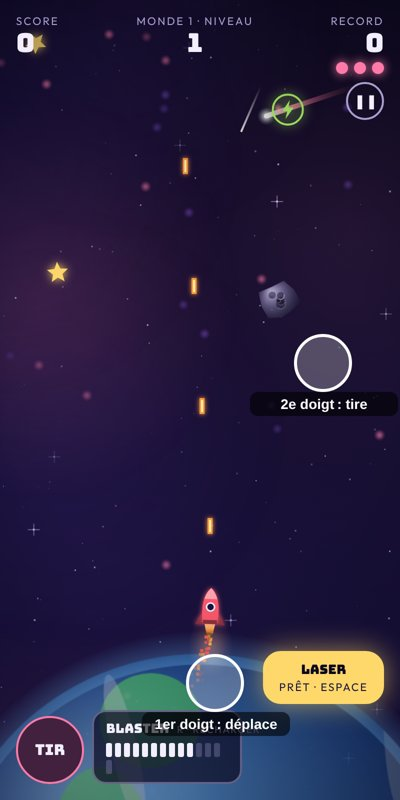
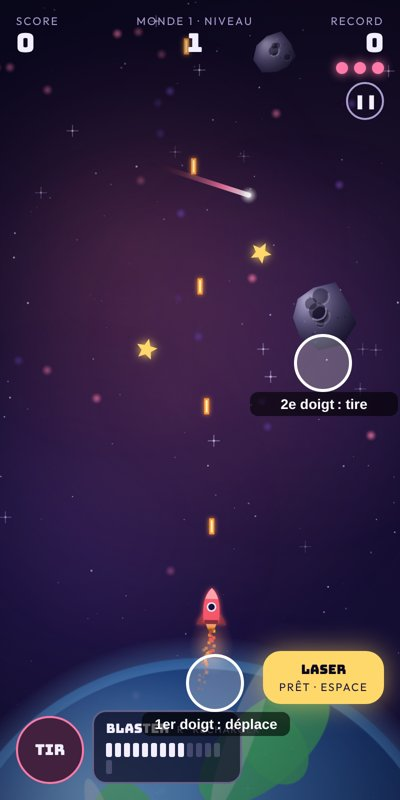
Tactile : le stylet compte comme un doigt, et iPhone/iPad ne coupent plus les doigts posés
- stylet (Apple Pencil) : il déplace la fusée et un doigt tire en même temps, ou l'inverse
- les gestes du navigateur (zoom, loupe, double tape) sont bloqués sur le jeu
- un doigt levé sans qu'on l'ait vu ne bloque plus le déplacement

Claude-Session: https://claude.ai/code/session_01LywcCjjwg17uz9yRwXMxBR

diff --git a/index.html b/index.html
@@ -5859,13 +5859,18 @@ body:not(.jeu) .hud { opacity: 0; }
   addEventListener('keyup', e => { keys[e.key.toLowerCase()] = false; });
   // au doigt, la fusée se place un peu au-dessus pour rester visible
   const pt = e => {
-    // si on a attrapé la fusée, elle garde sa place sous le doigt
-    if (grab && e.pointerType === 'touch') target = { x: e.clientX + grab.dx, y: e.clientY + grab.dy };
+    // si on a attrapé la fusée, elle garde sa place sous le doigt (ou le stylet)
+    if (grab && e.pointerType !== 'mouse') target = { x: e.clientX + grab.dx, y: e.clientY + grab.dy };
     else target = { x: e.clientX, y: e.clientY - (e.pointerType === 'touch' ? 70 : 0) };
   };
+  // doigts et stylet posés en ce moment (écoutés en premier, pour ne jamais en perdre un)
+  const downIds = new Set();
+  addEventListener('pointerdown', e => { if (e.pointerType !== 'mouse') downIds.add(e.pointerId); }, true);
   cv.addEventListener('pointerdown', e => {
-    if (e.pointerType === 'touch' && state === 'play') {
-      // un deuxième doigt pendant qu'un premier déplace la fusée : il tire (une tape = un tir, maintenu = tir continu)
+    if (e.pointerType !== 'mouse' && state === 'play') {
+      // un doigt levé sans qu'on l'ait vu ne doit pas bloquer le déplacement
+      if (moveId !== null && !downIds.has(moveId)) { moveId = null; grab = null; }
+      // un doigt (ou le stylet) déplace déjà la fusée : celui-ci tire (une tape = un tir, maintenu = tir continu)
       if (moveId !== null && moveId !== e.pointerId) {
         fireTouches.add(e.pointerId);
         tapShots = Math.min(3, tapShots + 1);
@@ -5883,11 +5888,16 @@ body:not(.jeu) .hud { opacity: 0; }
     if (e.pointerType === 'mouse' && e.button === 0) mouseFire = true;
   });
   const touchUp = e => {
+    downIds.delete(e.pointerId);
     fireTouches.delete(e.pointerId);
     if (e.pointerId === moveId) { moveId = null; grab = null; }
   };
-  addEventListener('pointerup', e => { if (e.pointerType === 'mouse') mouseFire = false; else touchUp(e); });
-  addEventListener('pointercancel', e => { if (e.pointerType !== 'mouse') touchUp(e); });
+  addEventListener('pointerup', e => { if (e.pointerType === 'mouse') mouseFire = false; else touchUp(e); }, true);
+  addEventListener('pointercancel', e => { if (e.pointerType !== 'mouse') touchUp(e); }, true);
+  // sur iPhone et iPad : empêcher le zoom, la loupe et les gestes à deux doigts, qui coupent les doigts posés sur le jeu
+  for (const ev of ['touchstart', 'touchmove']) cv.addEventListener(ev, e => { if (e.cancelable) e.preventDefault(); }, { passive: false });
+  addEventListener('gesturestart', e => e.preventDefault());
+  cv.addEventListener('dblclick', e => e.preventDefault());
   const fb = $('fireBtn');
   fb.addEventListener('pointerdown', e => { e.preventDefault(); btnFire = true; fb.classList.add('on'); try { fb.setPointerCapture(e.pointerId); } catch (err) {} });
   for (const ev of ['pointerup', 'pointercancel', 'lostpointercapture']) fb.addEventListener(ev, () => { btnFire = false; fb.classList.remove('on'); });
@@ -5896,7 +5906,7 @@ body:not(.jeu) .hud { opacity: 0; }
     if (e.pointerType === 'mouse') pt(e);
     else if (e.buttons && (moveId === null || e.pointerId === moveId)) pt(e);
   });
-  addEventListener('blur', () => { mouseFire = btnFire = false; moveId = null; grab = null; fireTouches.clear(); for (const k in keys) keys[k] = false; if (state === 'play') togglePause(); });
+  addEventListener('blur', () => { mouseFire = btnFire = false; moveId = null; grab = null; fireTouches.clear(); downIds.clear(); for (const k in keys) keys[k] = false; if (state === 'play') togglePause(); });
 
   // un niveau dure plus longtemps dans les mondes lointains (20 s, puis 26, 32, 38, 44)
   const levelSecs = () => 20 + world * 6;
